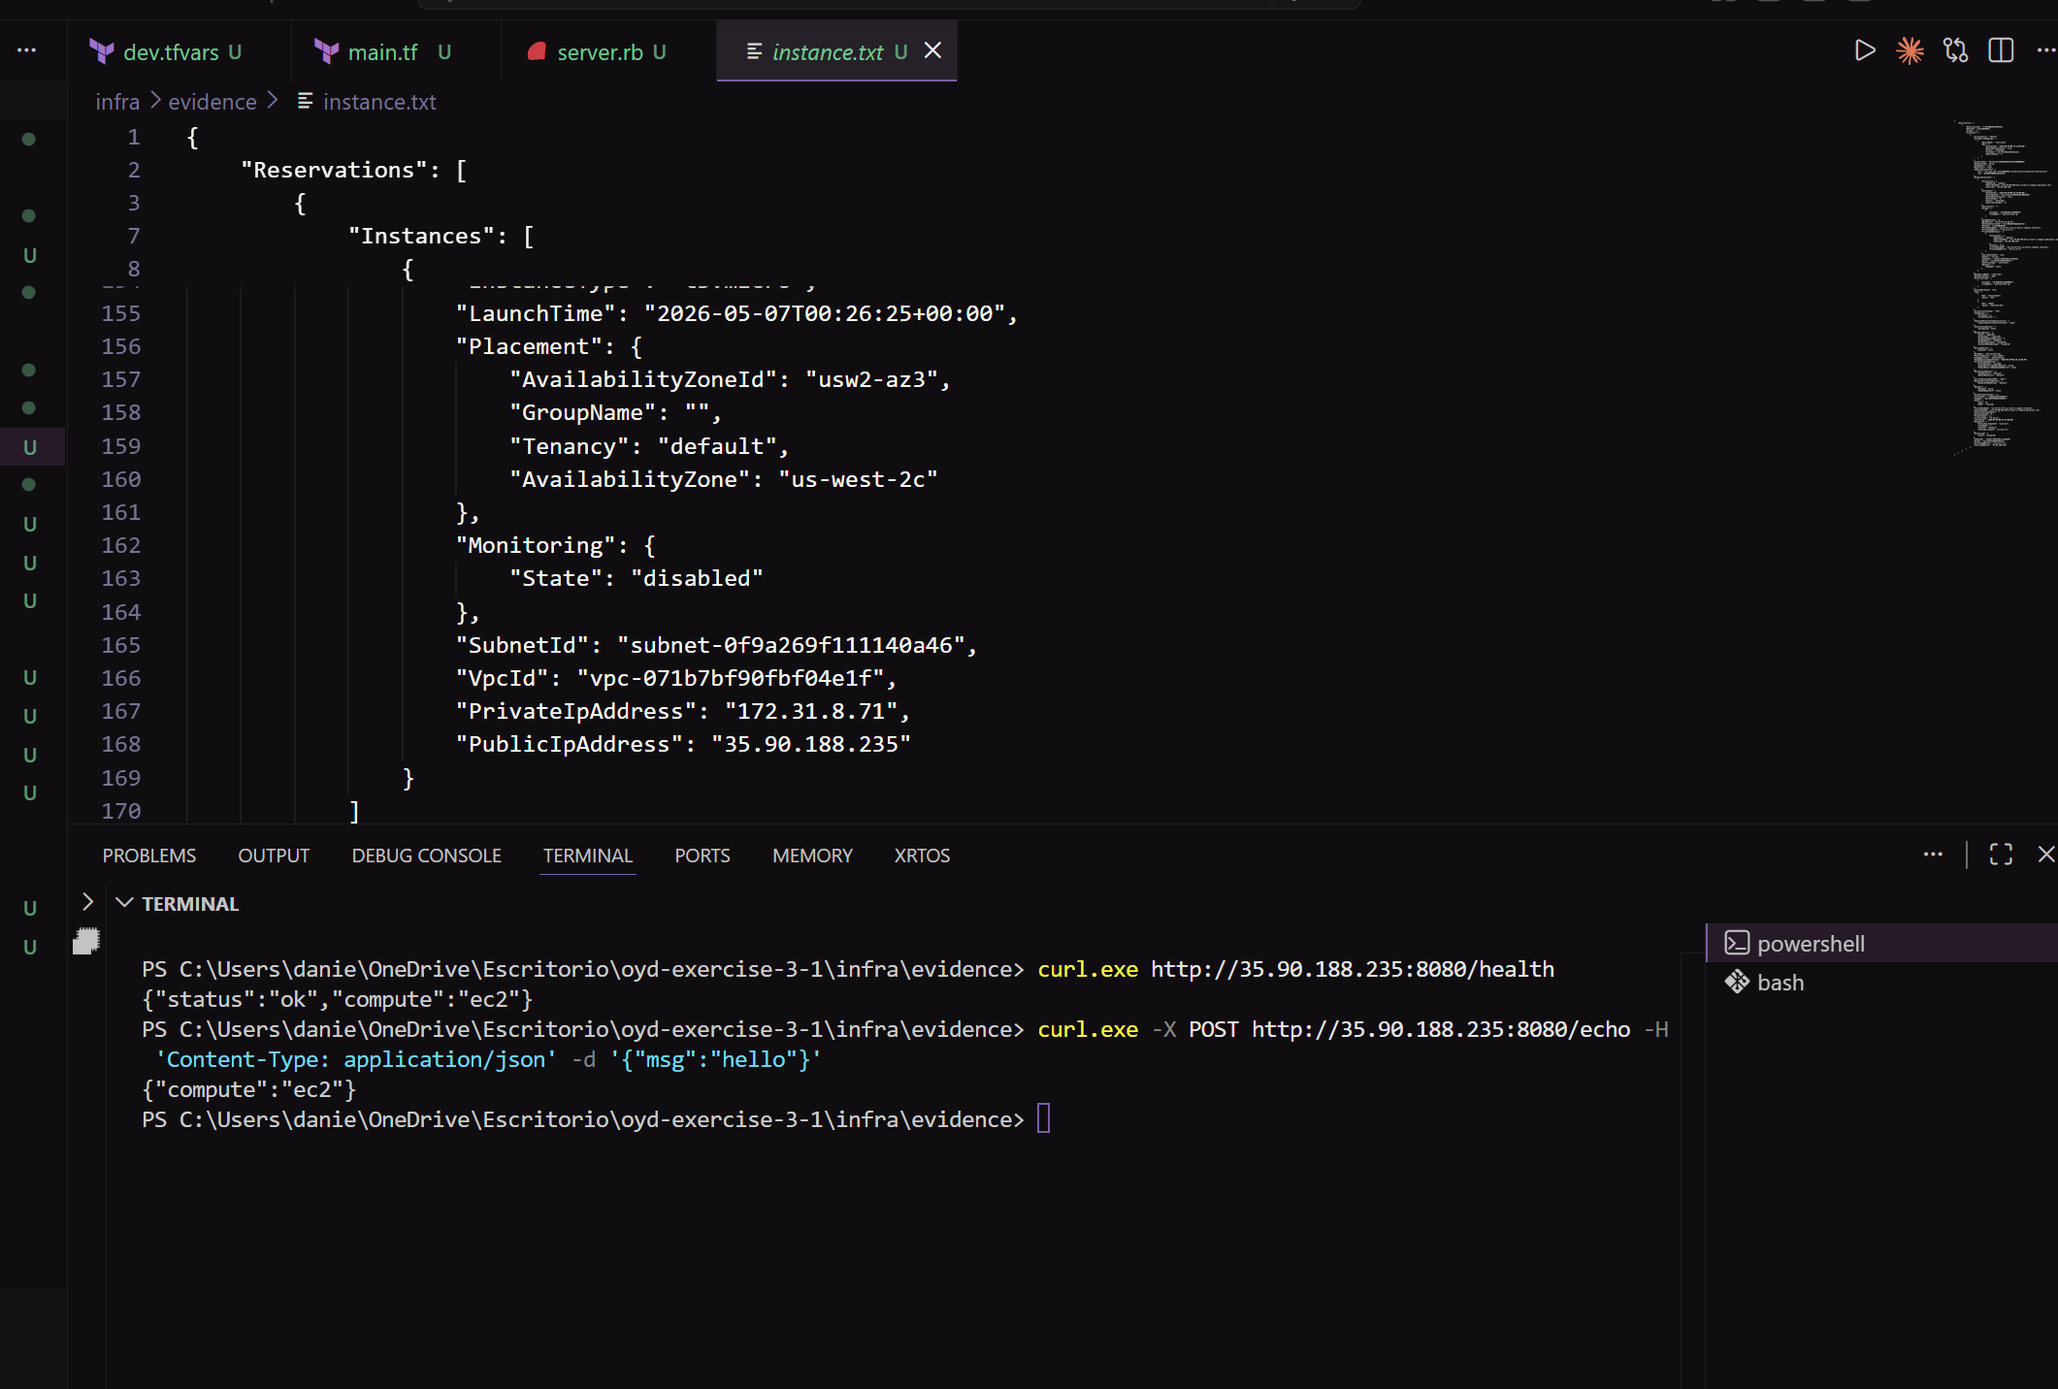
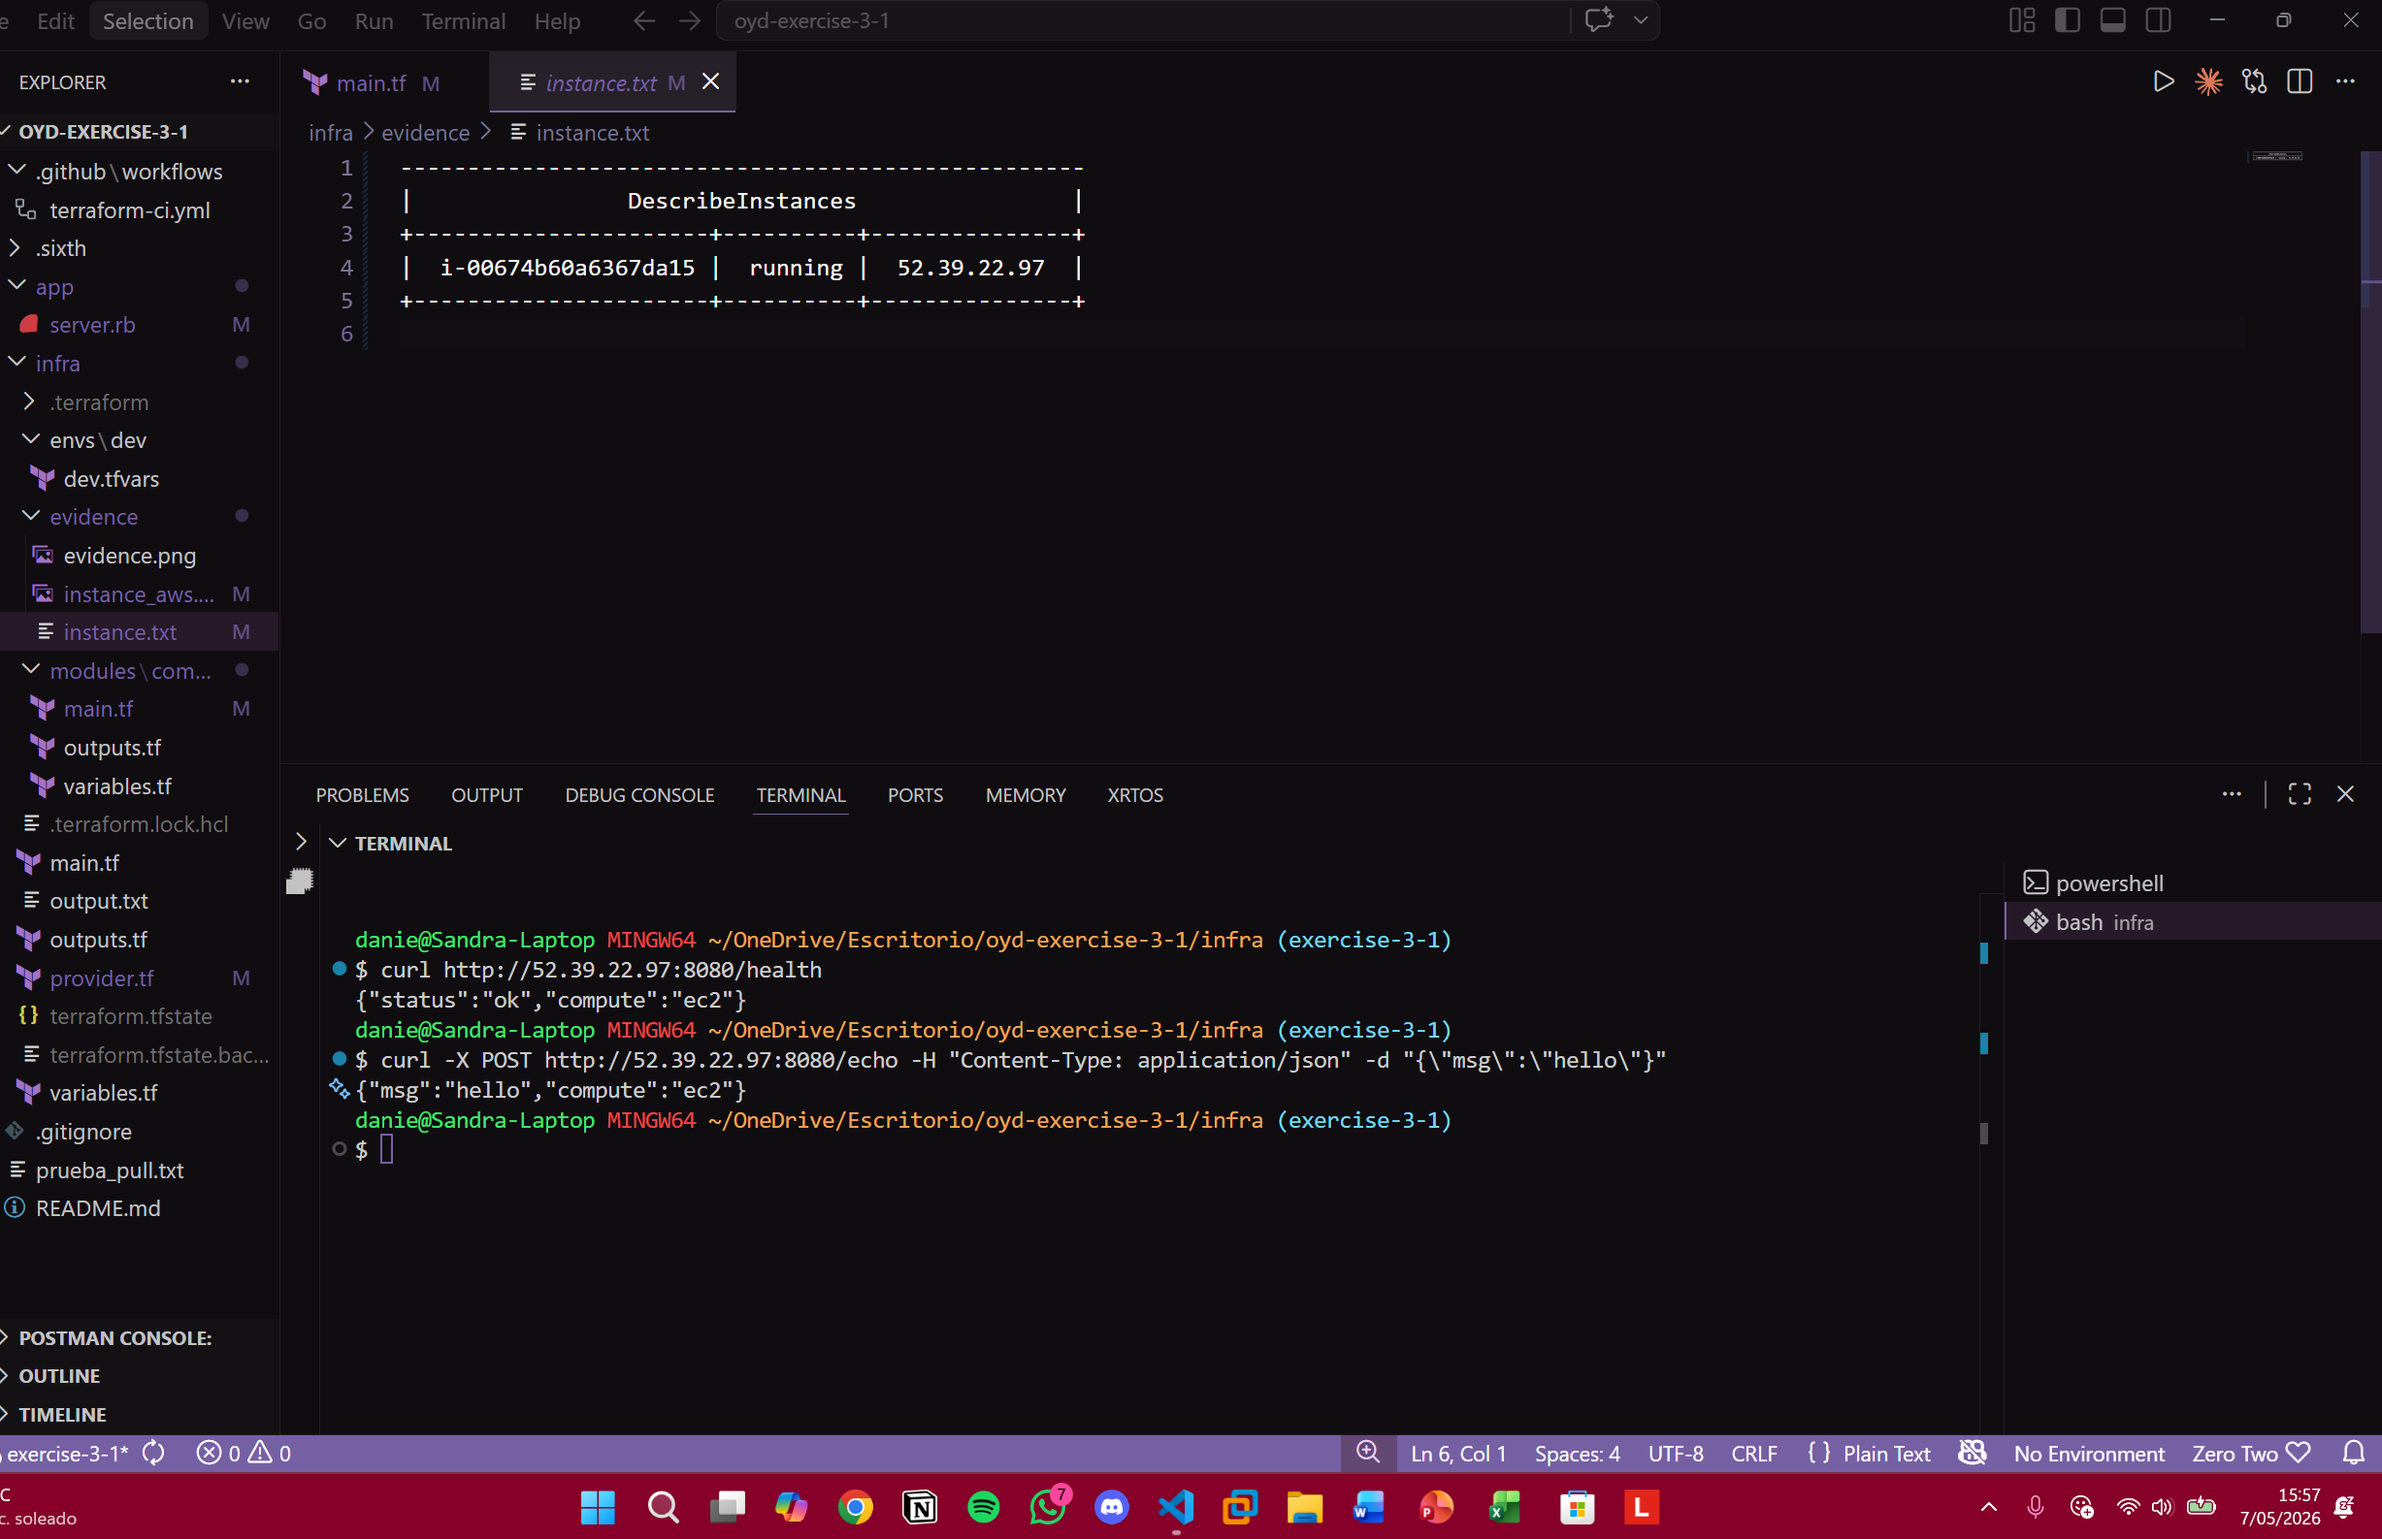
feat:add evidence and complete exercise 3.1

diff --git a/app/server.rb b/app/server.rb
@@ -1,52 +1,38 @@
 require 'socket'
 require 'json'
 
-
-
-
 PORT = (ENV['PORT'] || 8080).to_i
 COMPUTE = ENV['COMPUTE_TYPE'] || 'unknown'
-
-
-
 
 server = TCPServer.new(PORT)
 puts "listening on :#{PORT}"
 
-
-
-
 loop do
- client = server.accept
- request = client.gets
- method, path = request&.split(' ')
- headers = {}
- while (line = client.gets.chomp) != ''
-   k, v = line.split(': ', 2)
-   headers[k.downcase] = v
- end
- len = headers['content-length'].to_i
- body_raw = len > 0 ? client.read(len) : '{}'
- payload = JSON.parse(body_raw) rescue {}
+  client = server.accept
+  request = client.gets
+  method, path = request&.split(' ')
+  headers = {}
+  while (line = client.gets.chomp) != ''
+    k, v = line.split(': ', 2)
+    headers[k.downcase] = v
+  end
 
+  len = headers['content-length'].to_i
+  body_raw = len > 0 ? client.read(len) : '{}'
+  payload = JSON.parse(body_raw) rescue {}
 
+  if method == 'GET' && path == '/health'
+    resp = { status: 'ok', compute: COMPUTE }.to_json
+  elsif method == 'POST' && path == '/echo'
+    resp = payload.merge('compute' => COMPUTE).to_json
+  else
+    resp = { error: 'not found' }.to_json
+  end
 
-
- if method == 'GET' && path == '/health'
-   resp = { status: 'ok', compute: COMPUTE }.to_json
- elsif method == 'POST' && path == '/echo'
-   resp = payload.merge('compute' => COMPUTE).to_json
- else
-   resp = { error: 'not found' }.to_json
- end
-
-
-
-
- client.puts "HTTP/1.1 200 OK"
- client.puts "Content-Type: application/json"
- client.puts "Content-Length: #{resp.bytesize}"
- client.puts ''
- client.puts resp
- client.close
+  client.puts "HTTP/1.1 200 OK"
+  client.puts "Content-Type: application/json"
+  client.puts "Content-Length: #{resp.bytesize}"
+  client.puts ''
+  client.puts resp
+  client.close
 end

diff --git a/README.md b/README.md
@@ -85,11 +85,11 @@ terraform destroy -var-file=envs/dev/dev.tfvars
 ## Evidence
 
 ```
------------------------------------------------------------------
-|                     DescribeInstances                         |
-+----------------------+---------+------------------+
-|  i-05a831acd435693fa | running |  35.90.188.235   |
-+----------------------+---------+------------------+
+---------------------------------------------------
+|                DescribeInstances                |
++----------------------+----------+---------------+
+|  i-00674b60a6367da15 |  running |  52.39.22.97  |
++----------------------+----------+---------------+
 ```
 [Evidencia de instancia corriendo](infra/evidence/instance.txt)
 
